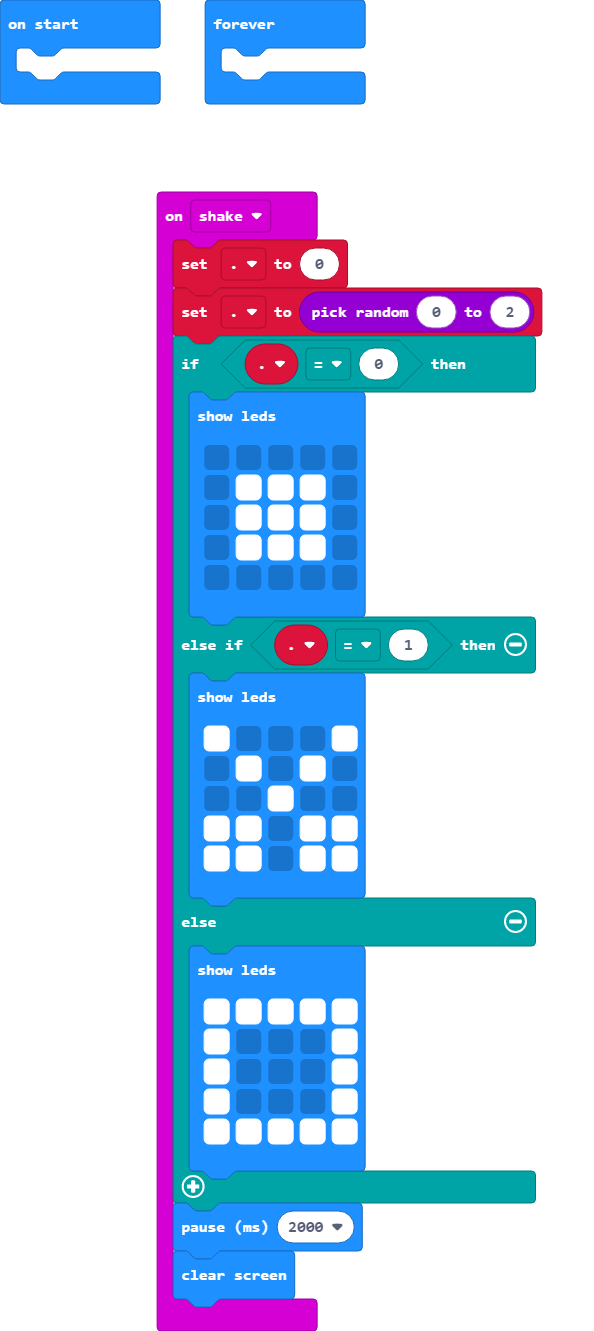
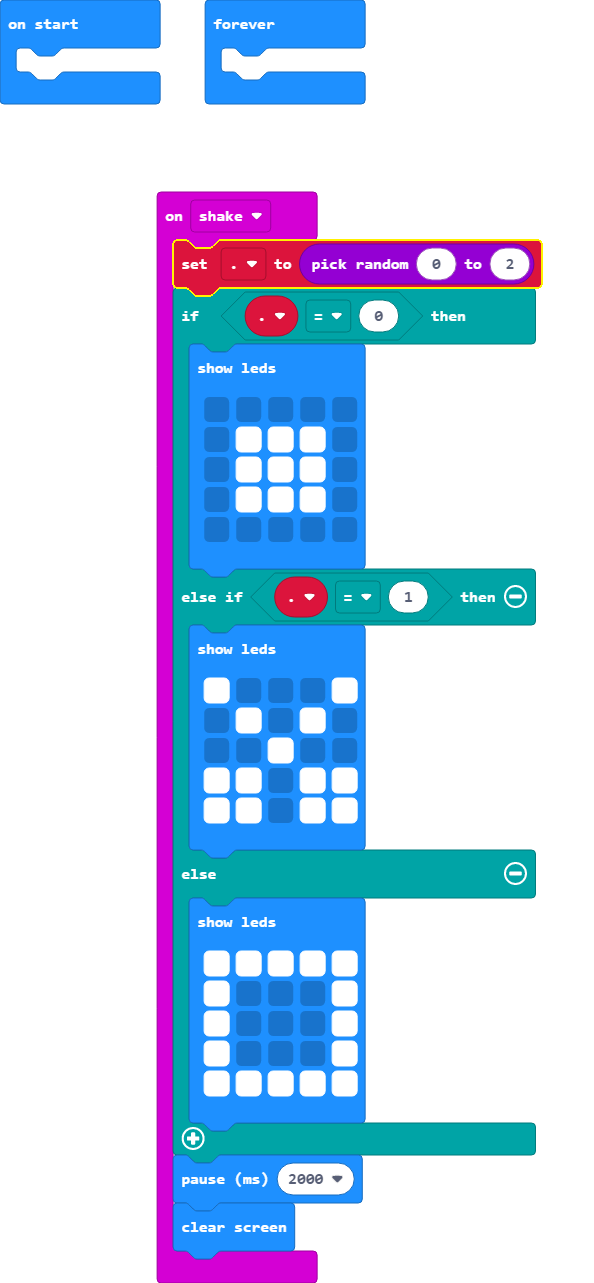
Update main.blocks, main.ts

Changed region(s): [[0.2727, 0.1247, 0.9394, 0.9665], [0.3636, 0.0, 0.6061, 0.0935], [0.0, 0.0, 0.2727, 0.0935]]

diff --git a/main.ts b/main.ts
@@ -1,6 +1,5 @@
 let _ = 0
 input.onGesture(Gesture.Shake, function () {
-    _ = 0
     _ = randint(0, 2)
     if (_ == 0) {
         basic.showLeds(`
